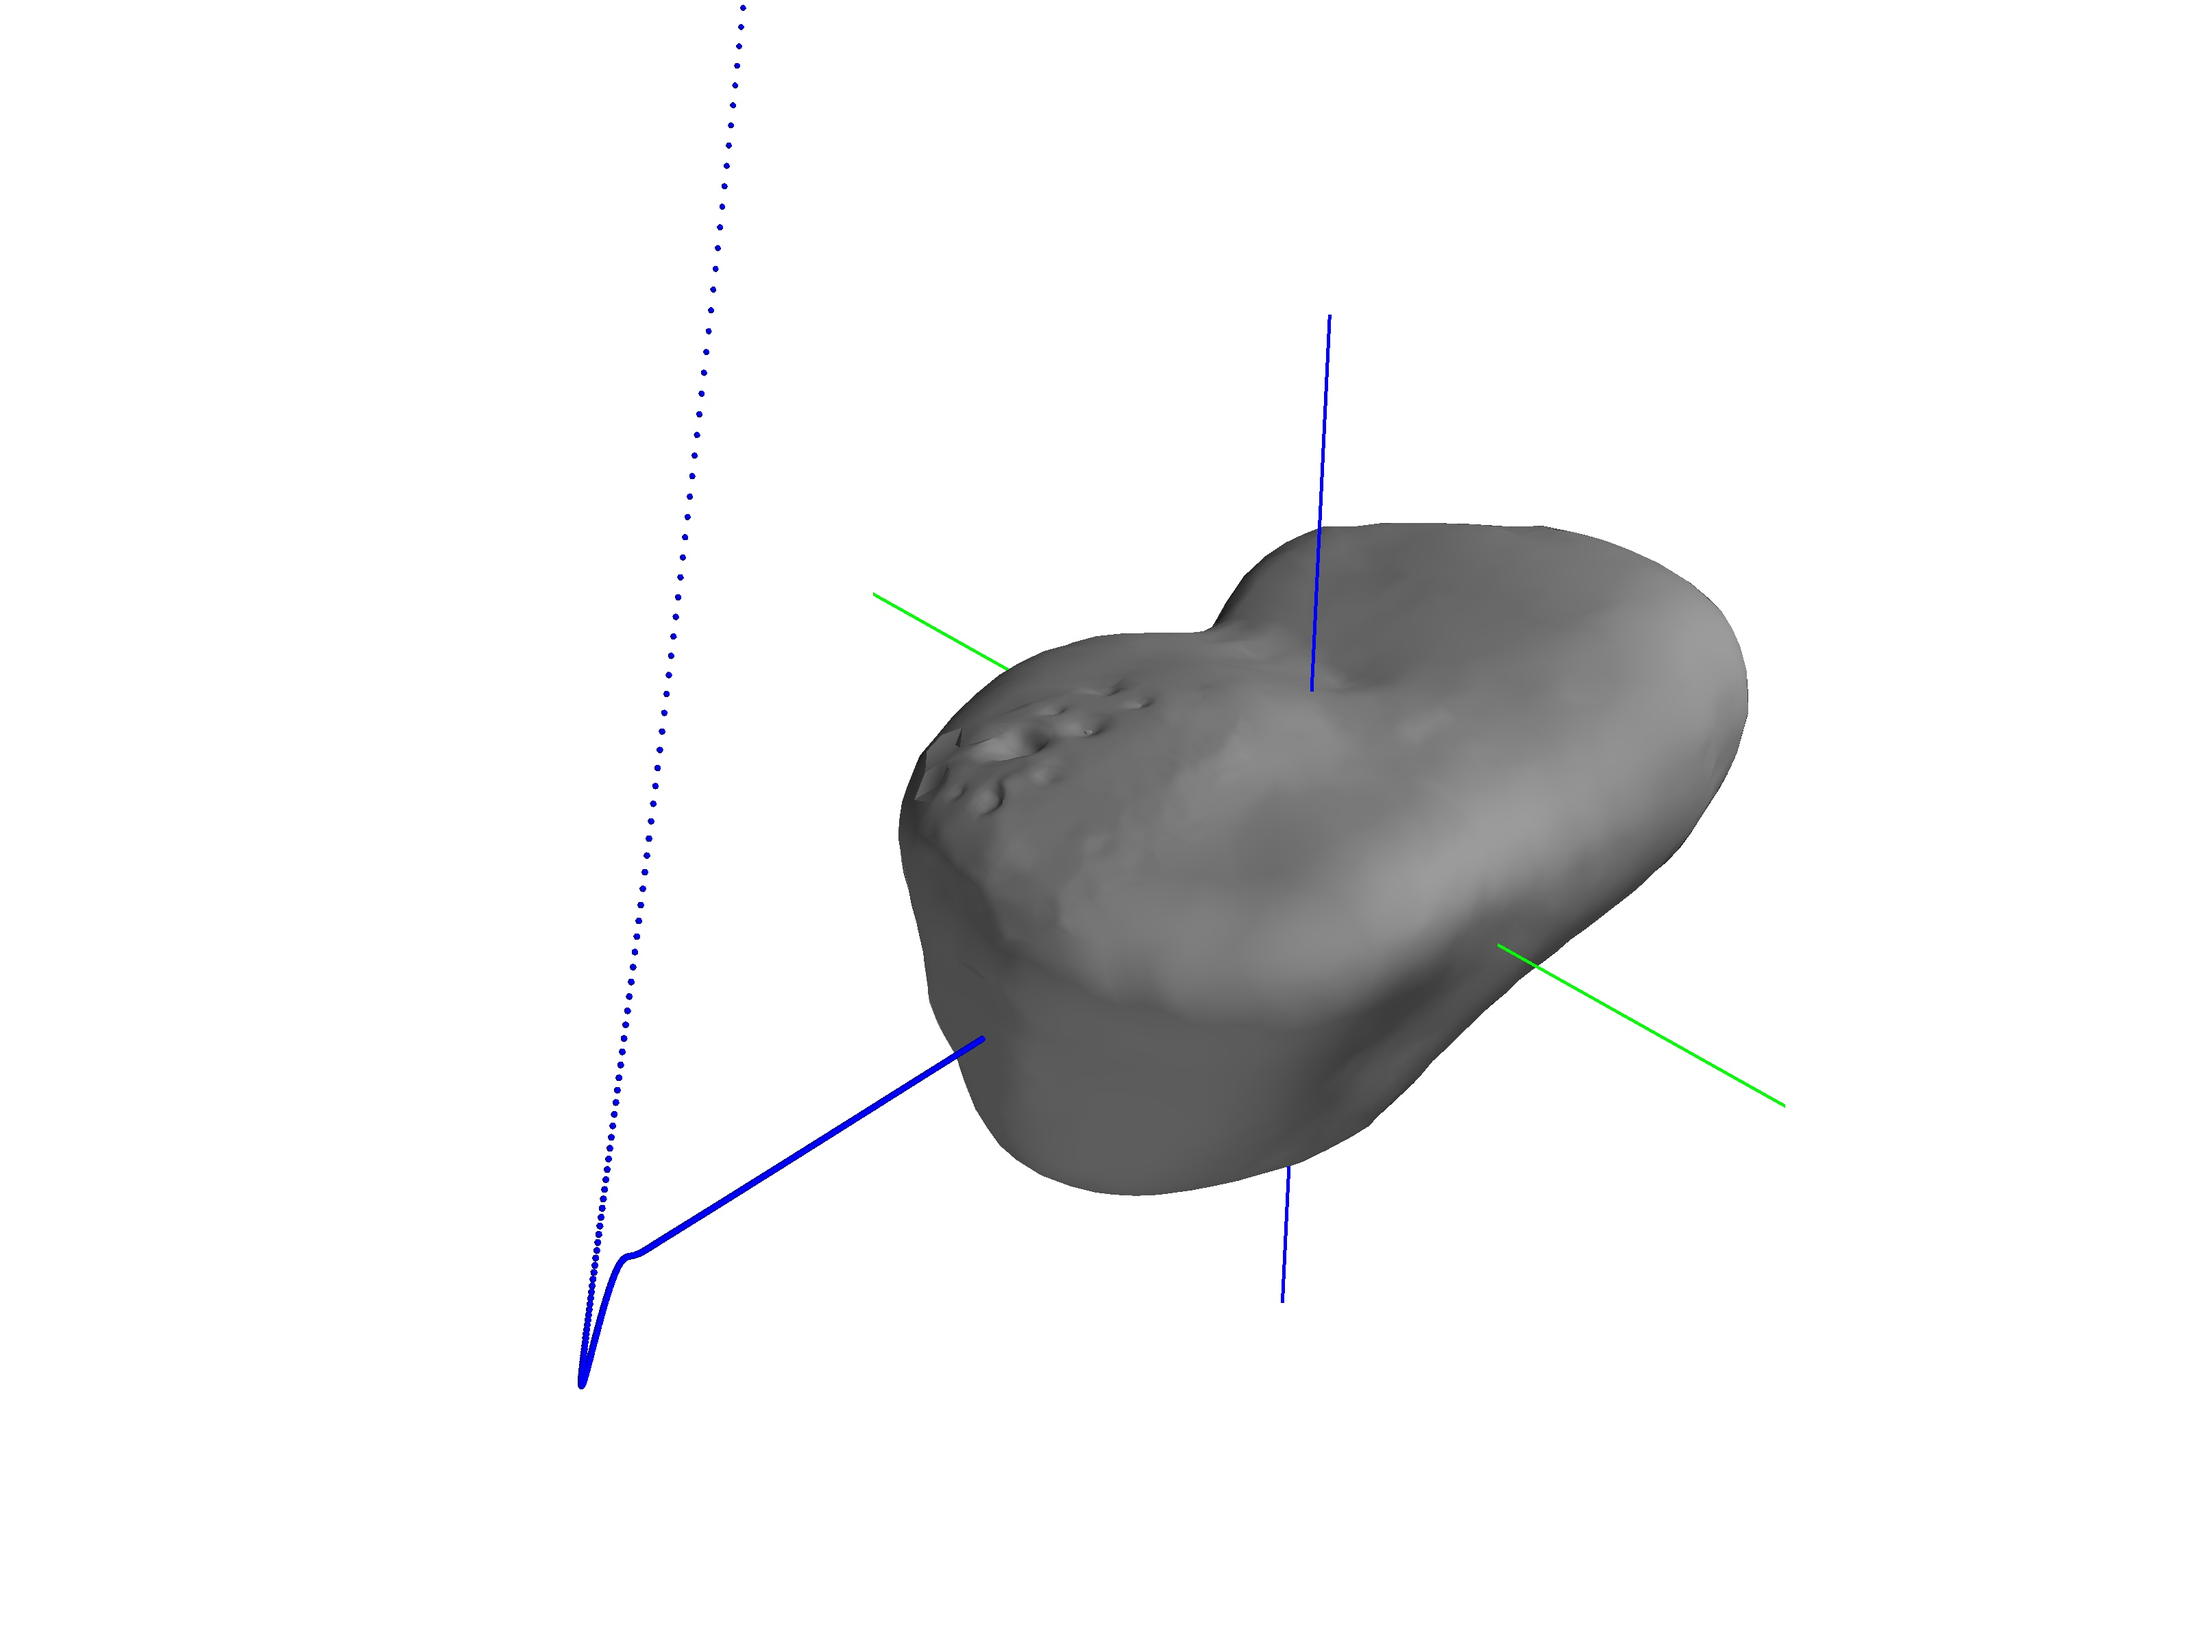
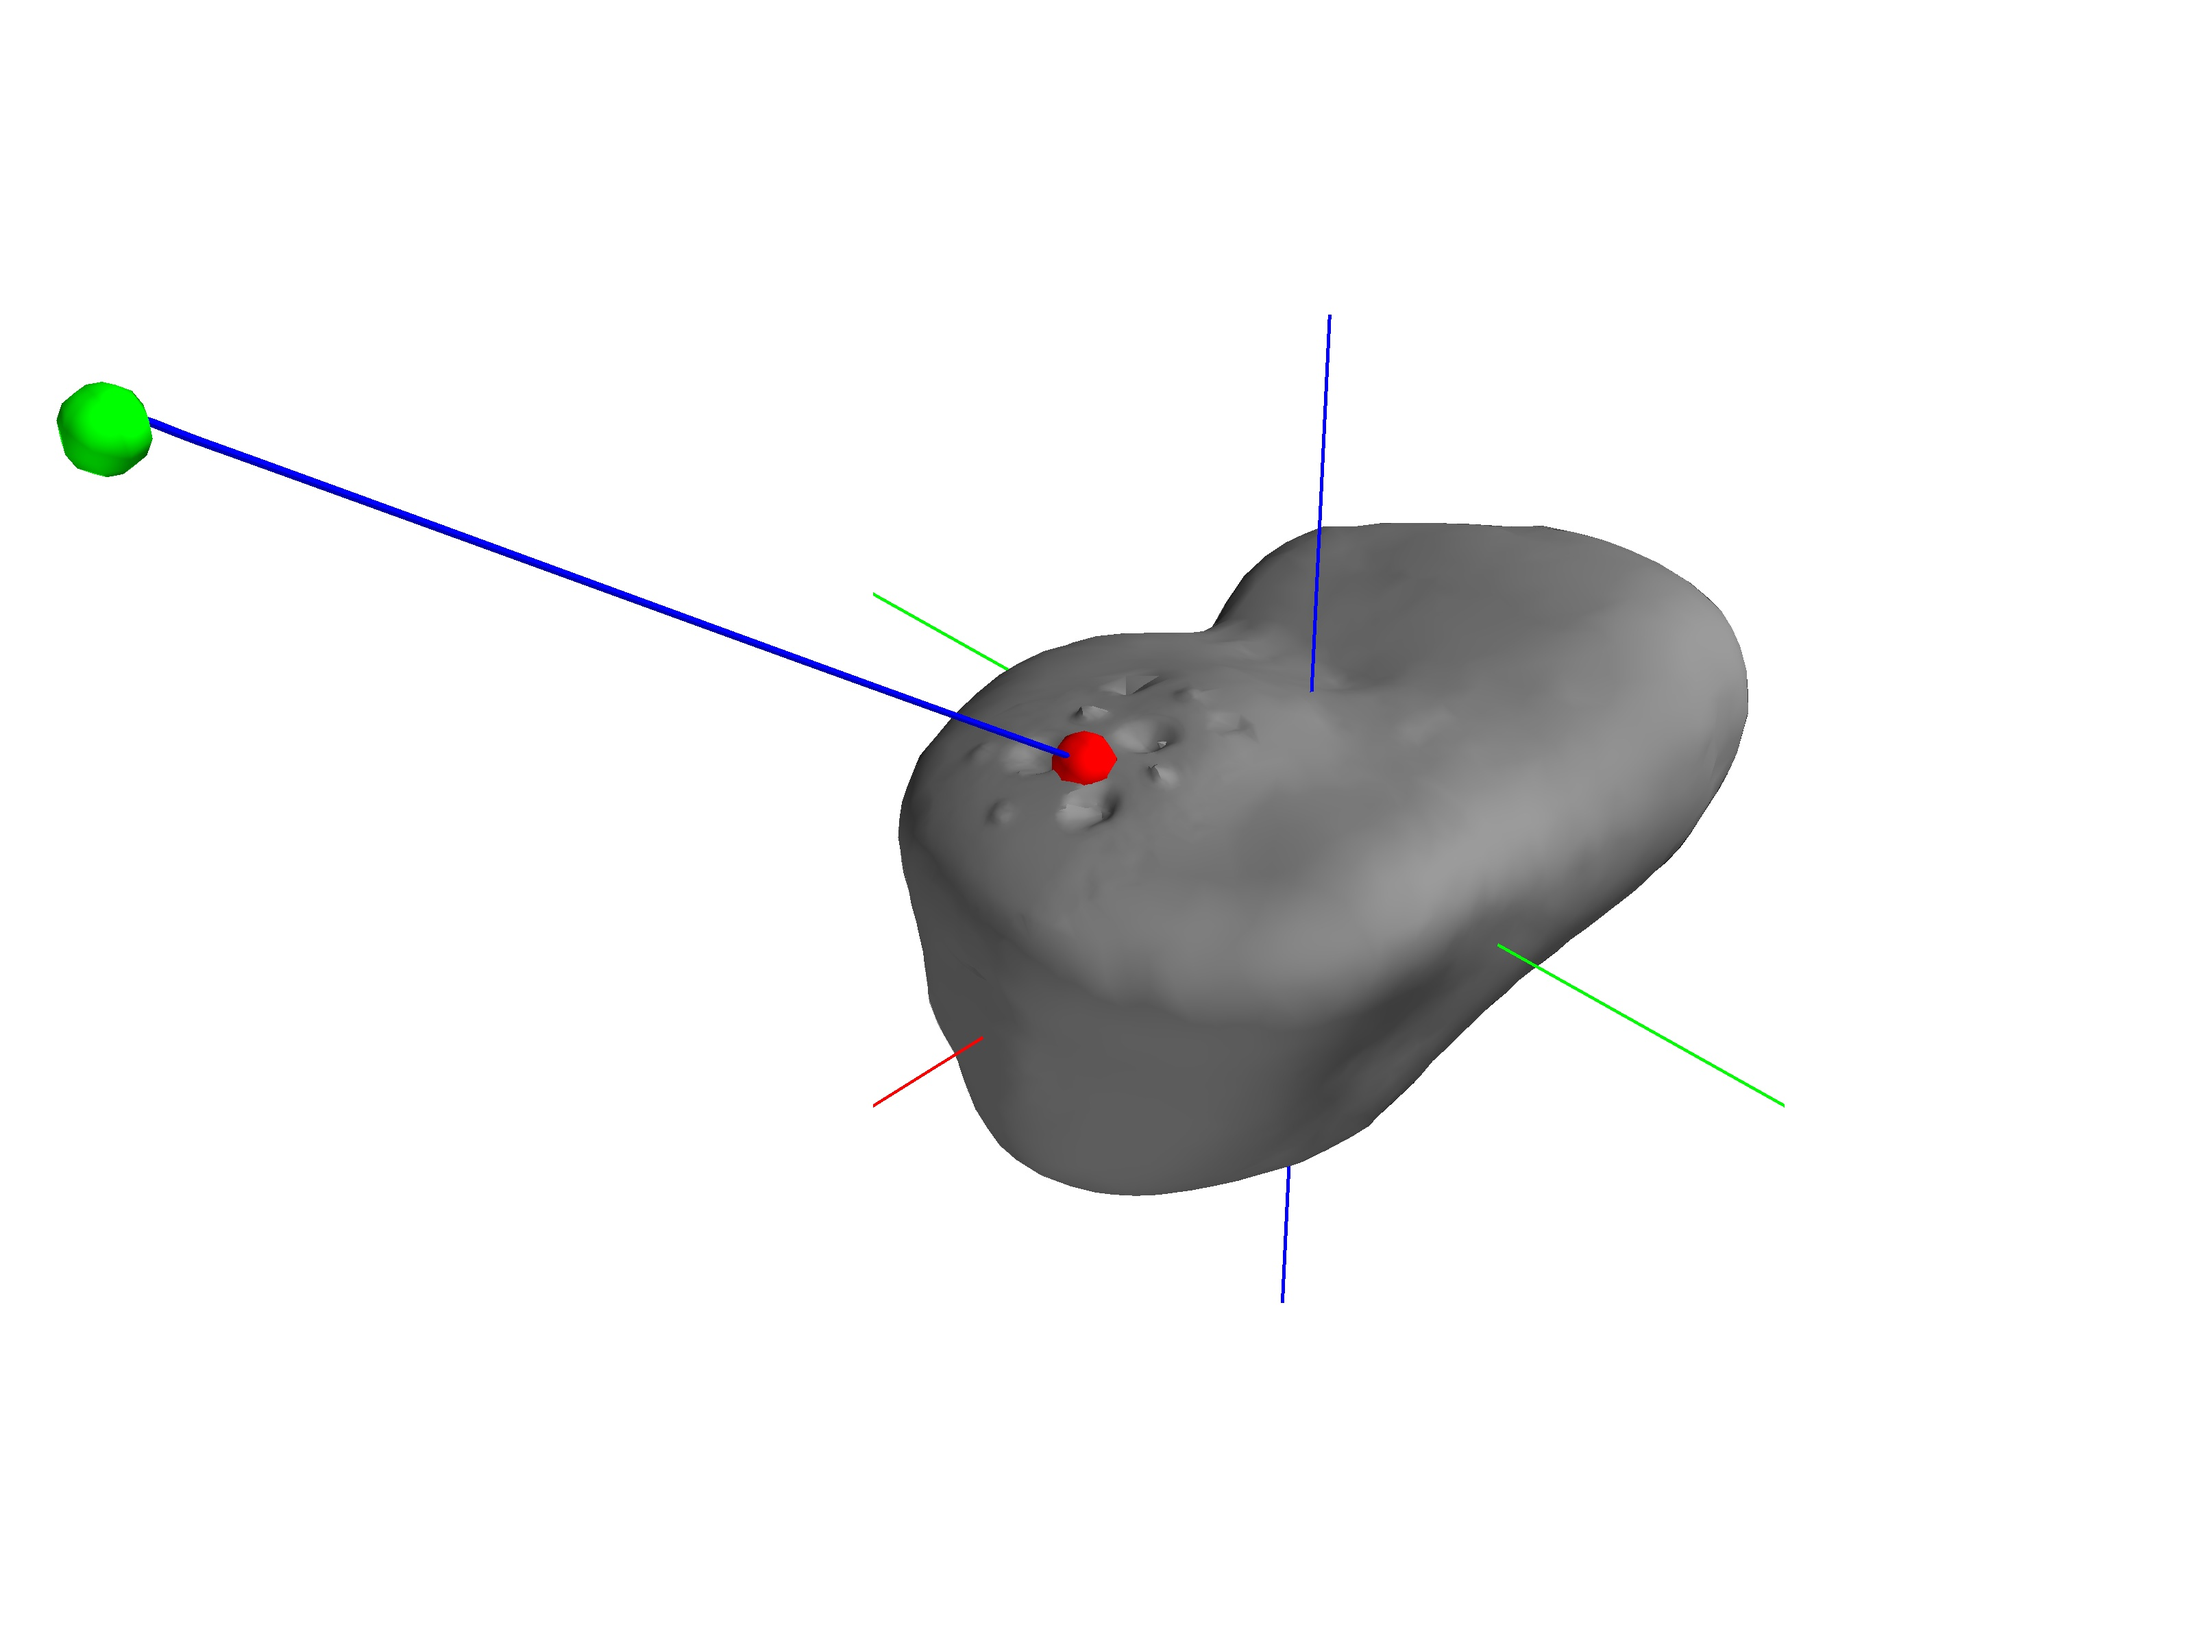
Update landing plots for castalia

diff --git a/tex/shape_reconstruction.tex b/tex/shape_reconstruction.tex
@@ -887,6 +887,21 @@ In addition, the volume estimate is initially a much larger value but quickly co
     \subcaptionbox{Volume Percent Error\label{fig:castalia_volume}}{\includegraphics[width=0.5\textwidth,keepaspectratio]{figures/computational_geometry/dynamic_exploration/castalia/volume.pdf}}
     \caption{Normalized uncertainty and volume percent error for Castalia\label{fig:castalia_metrics}}
 \end{figure}
+
+The spacecraft autonomously navigates around asteroid Castalia to best minimize the cost function in~\cref{eq:control_cost}.
+The state trajectory is visualized in the asteroid frame in~\cref{fig:castalia_explore_trajectory}.
+\begin{figure}[htbp]
+    \centering
+    \includegraphics[width=\textwidth]{figures/computational_geometry/dynamic_exploration/castalia/state/asteroid_trajectory.jpg}
+    \caption{Spacecraft trajectory in the rotating asteroid frame~\label{fig:castalia_explore_trajectory}}
+\end{figure}
+The component plots of the trajectory are shown in~\cref{fig:castalia_explore_components}.
+\begin{figure}[htbp]
+    \centering
+    \includegraphics[width=\textwidth]{figures/computational_geometry/dynamic_exploration/52760/state/ast_comp.pdf}
+    \caption{Components of spacecraft trajectory\label{fig:castlia_explore_components}}
+\end{figure}
+
 \paragraph{Castalia Landing Site Selection}
 With an appropriate shape estimate, the spacecraft can autonomously transition from a shape reconstruction to a landing mode.
 Based on the shape estimate we seek to determine the best location to land. 
@@ -948,7 +963,9 @@ The increased number of faces and vertices in the landing area allows for the ca
 \paragraph{Castalia Vertical Descent}
 The final phase of the simulation is to utilize the mixed resolution model and vertically descend to the desired landing site. 
 This is accomplished using the closed loop control of~\cref{sec:se3_control} and a trajectory which transitions from the home postion to the surface over \SI{3600}{\second}.
-
-Show state trajectory plots and a 3d plots of trajectory from landing
-
-Some small kind of conclusion wrapping it all up
+The landing trajectory, using the estimated shape, is visualized in the asteroid frame in~\cref{fig:castalia_landing}.
+\begin{figure}[htbp]
+    \centering
+    \includegraphics[width=\textwidth]{figures/computational_geometry/dynamic_exploration/castalia/land/asteroid_trajectory.jpg}
+    \caption{Vertical descent onto 4769 Castalia~\label{fig:castalia_landing}}
+\end{figure}
